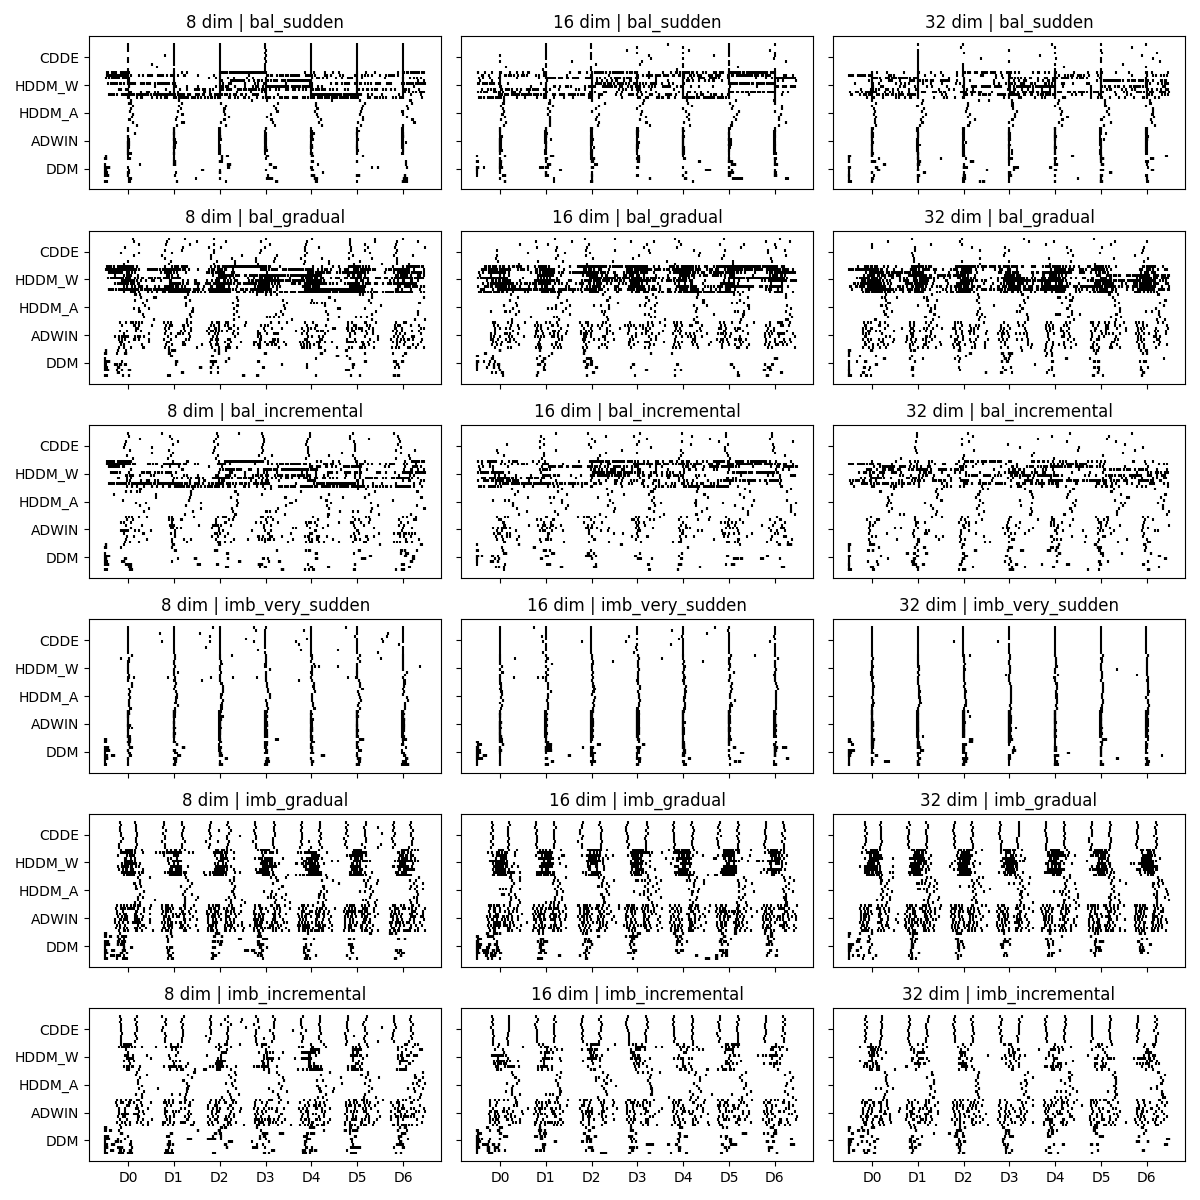
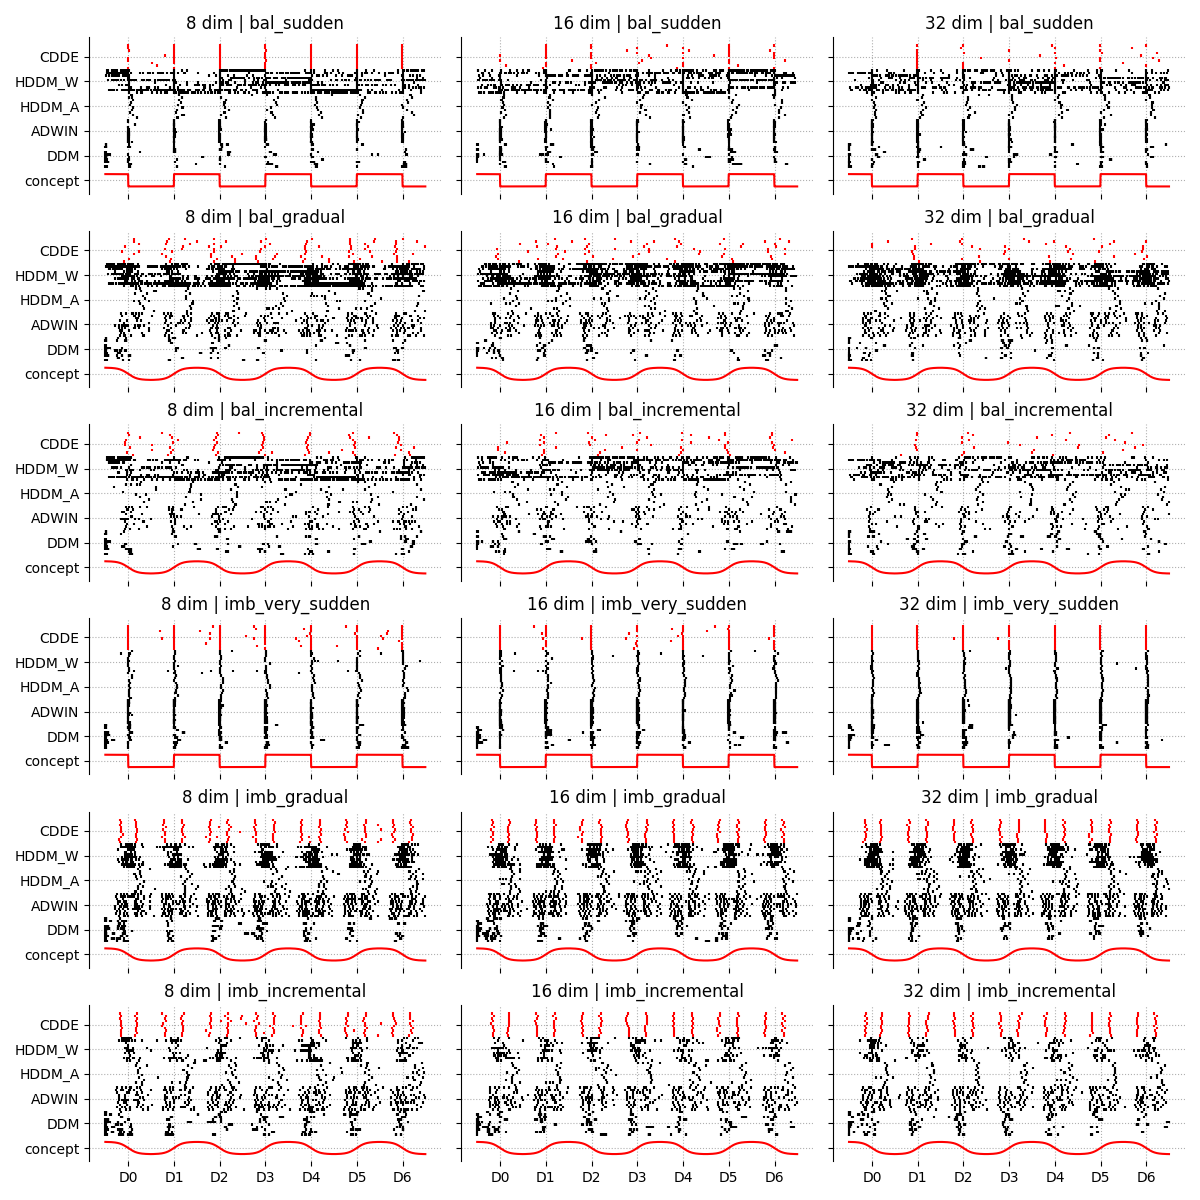
concept line

diff --git a/analyze_1.py b/analyze_1.py
@@ -2,6 +2,21 @@ from config import *
 import numpy as np
 import matplotlib.pyplot as plt
 from methods import find_real_drift
+from strlearn.streams import StreamGenerator
+
+# Gather stream dynamics info
+sc = { 'n_features':1, 'n_informative':1,'n_clusters_per_class':1 }
+
+cp = []
+for drift_type in drift_types:
+    print(drift_type)
+    s = StreamGenerator(**static, **drift_types[drift_type], **sc)
+    s._make_classification()
+    cp.append(s.concept_probabilities)
+
+cps = np.linspace(0, static['n_chunks'], 
+                  static['n_chunks']*static['chunk_size'])
+
 
 # Establish base stream info
 n_chunks = static['n_chunks']
@@ -28,12 +43,20 @@ for dt_id, dt in enumerate(drift_types):
                 start = d*10 + step*rep
                 stop = d*10 + step*(rep+1)
                 detections = np.argwhere(r[rep,d]==2).flatten()
-                aa.vlines(detections, start, stop, color='black')
+                aa.vlines(detections, start, stop, color='black' if d < 4 else 'red')
+                
+        aa.plot(cps, cp[dt_id]*5-7.5, c='red')
+        aa.grid(ls=":")
                     
         aa.set_title('%i dim | %s' % (dim, dt))
         aa.set_xticks(drifts, ['D%i' % i for i in range(7)])
-        aa.set_yticks([(10*i)+5 for i in range(len(detectors))], detectors)
+        aa.set_yticks([(10*i)-5 
+                       for i in range(len(detectors)+1)], 
+                      ['concept']+detectors)
+        aa.spines['top'].set_visible(False)
+        aa.spines['right'].set_visible(False)
+        aa.spines['bottom'].set_visible(False)
         
-plt.tight_layout()
-plt.savefig('figures/e1.png')
-plt.savefig('foo.png')
+    plt.tight_layout()
+    plt.savefig('figures/e1.png')
+    plt.savefig('foo.png')
